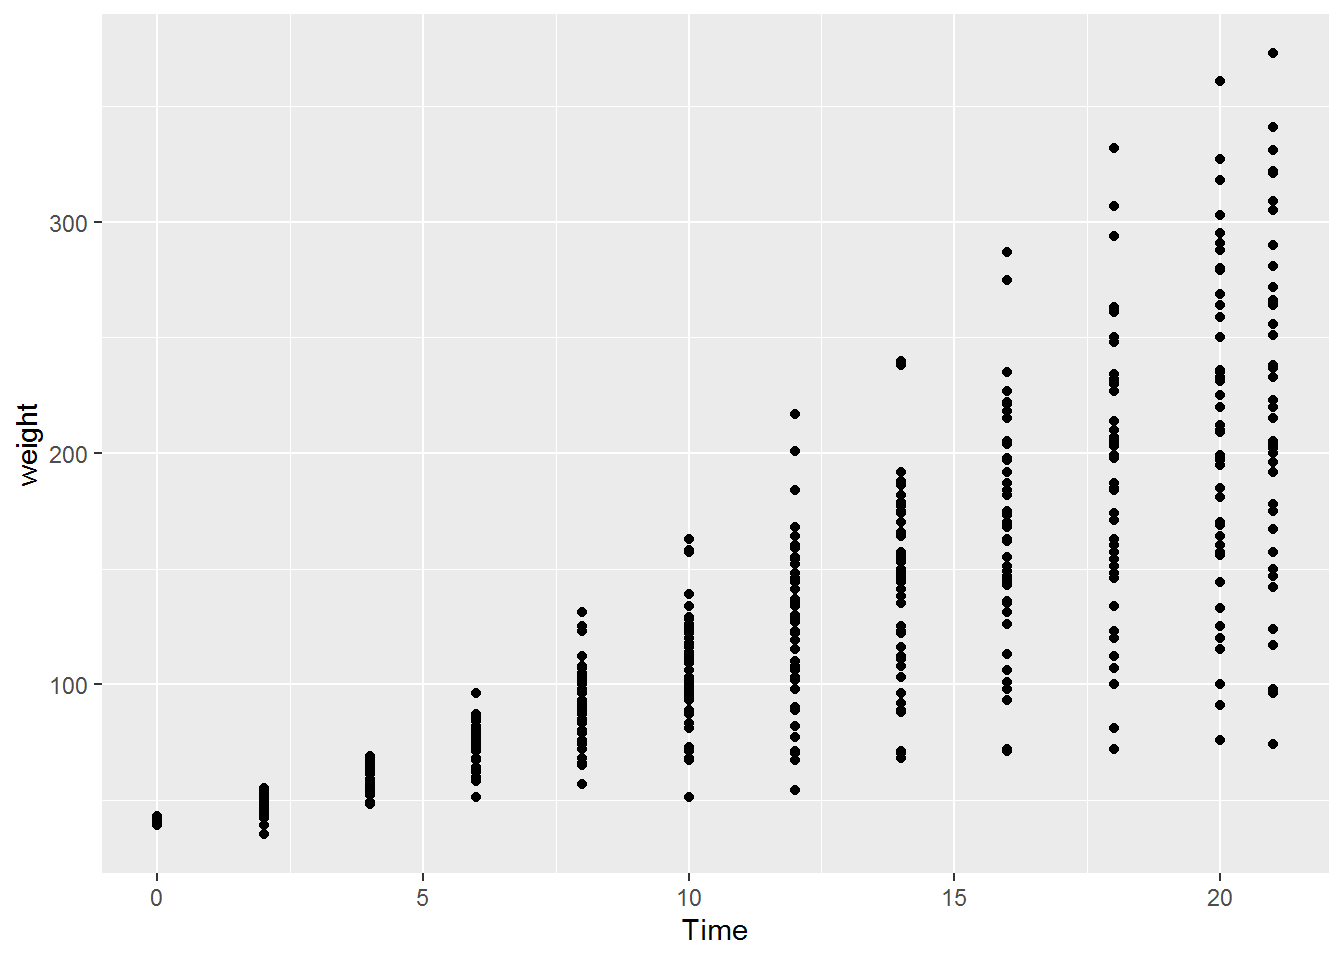
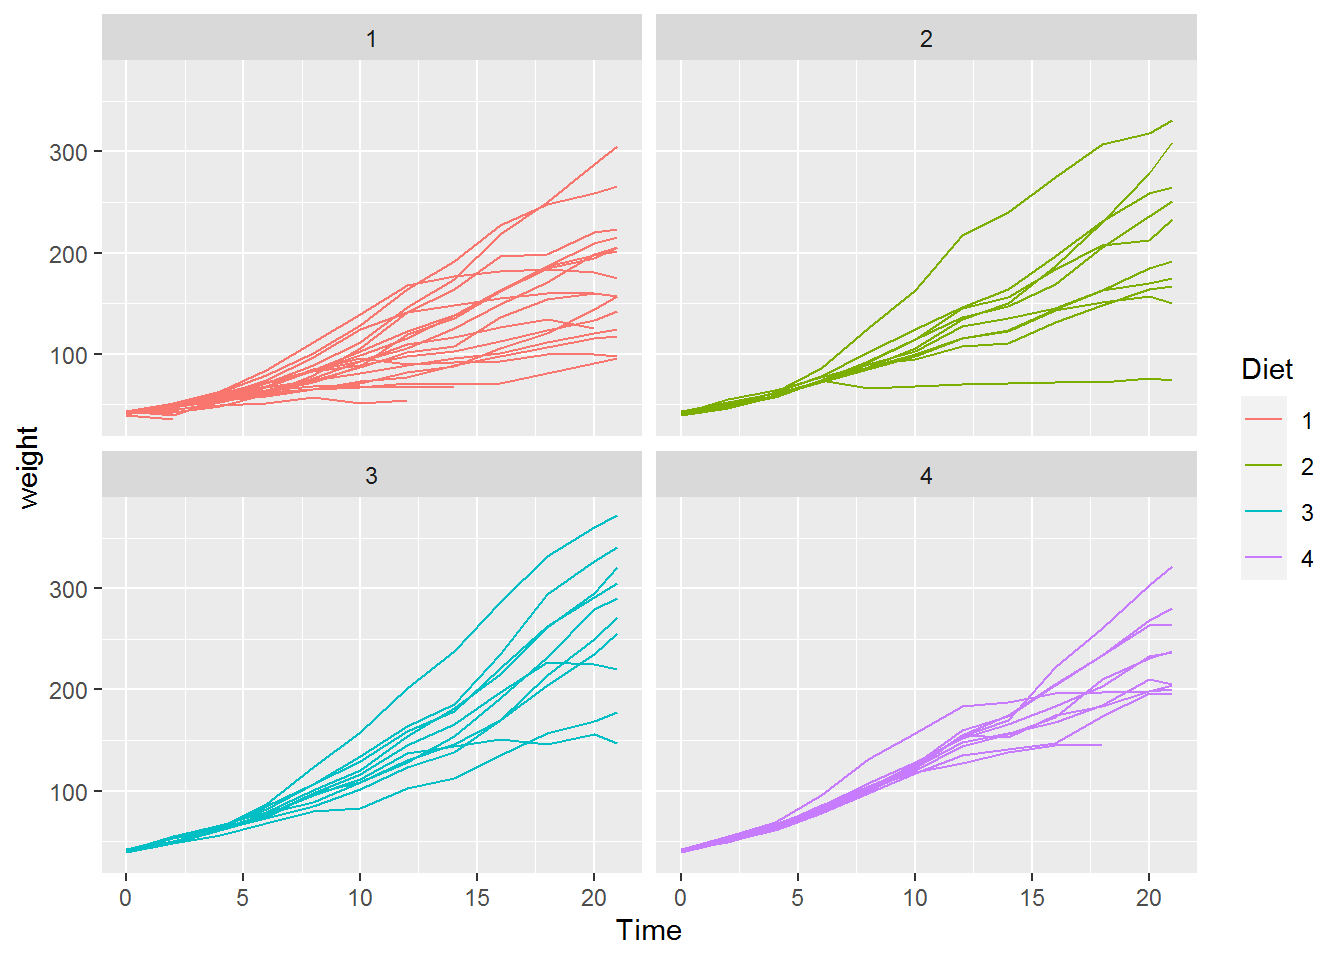
gffgfg

diff --git a/content/post/2021-05-19-assignment-a01-ggplot2/index.html b/content/post/2021-05-19-assignment-a01-ggplot2/index.html
@@ -39,8 +39,13 @@ This data frame has 578 rows and 4 columns from an experiment on the effect of d
 </div>
 <div id="numerical" class="section level2">
 <h2>numerical</h2>
-<pre class="r"><code>ggplot(ChickWeight, aes(Time, weight)) +
-  geom_point() </code></pre>
+<pre class="r"><code># First we&#39;re going to make a background dataset with the diet variable removed. 
+ChickWeight_bg &lt;- ChickWeight %&gt;% filter((Time == 0) | (Time == 21)) %&gt;% select(-Diet)
+
+# let&#39;s group the data by each chick; this will carry out any subsequent geoms for each chick
+ggplot(ChickWeight, aes(Time, weight, color = Diet, group = Chick))+
+  geom_line() + # line plot
+  facet_wrap(~Diet)</code></pre>
 <p><img src="{{< blogdown/postref >}}index_files/figure-html/unnamed-chunk-3-1.png" width="672" /></p>
 <ol start="3" style="list-style-type: decimal">
 <li>discussion</li>
